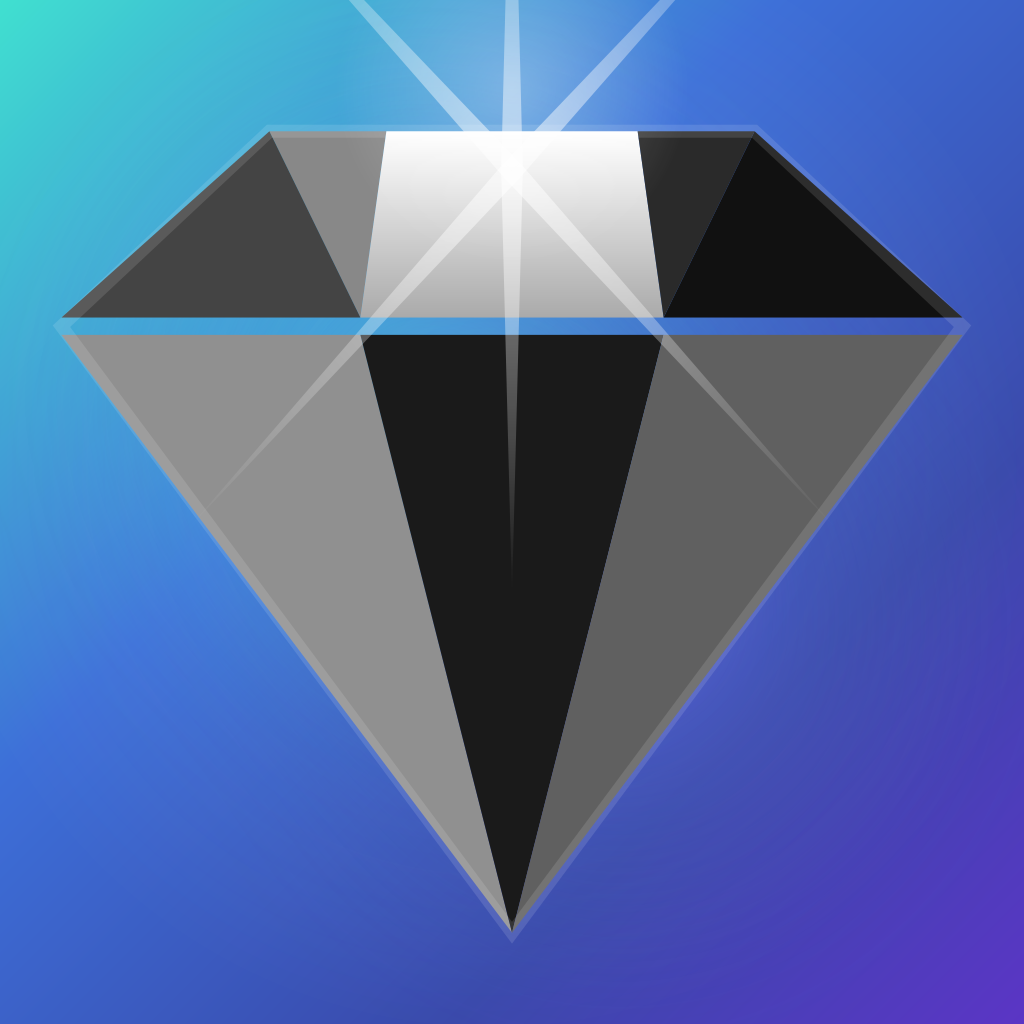
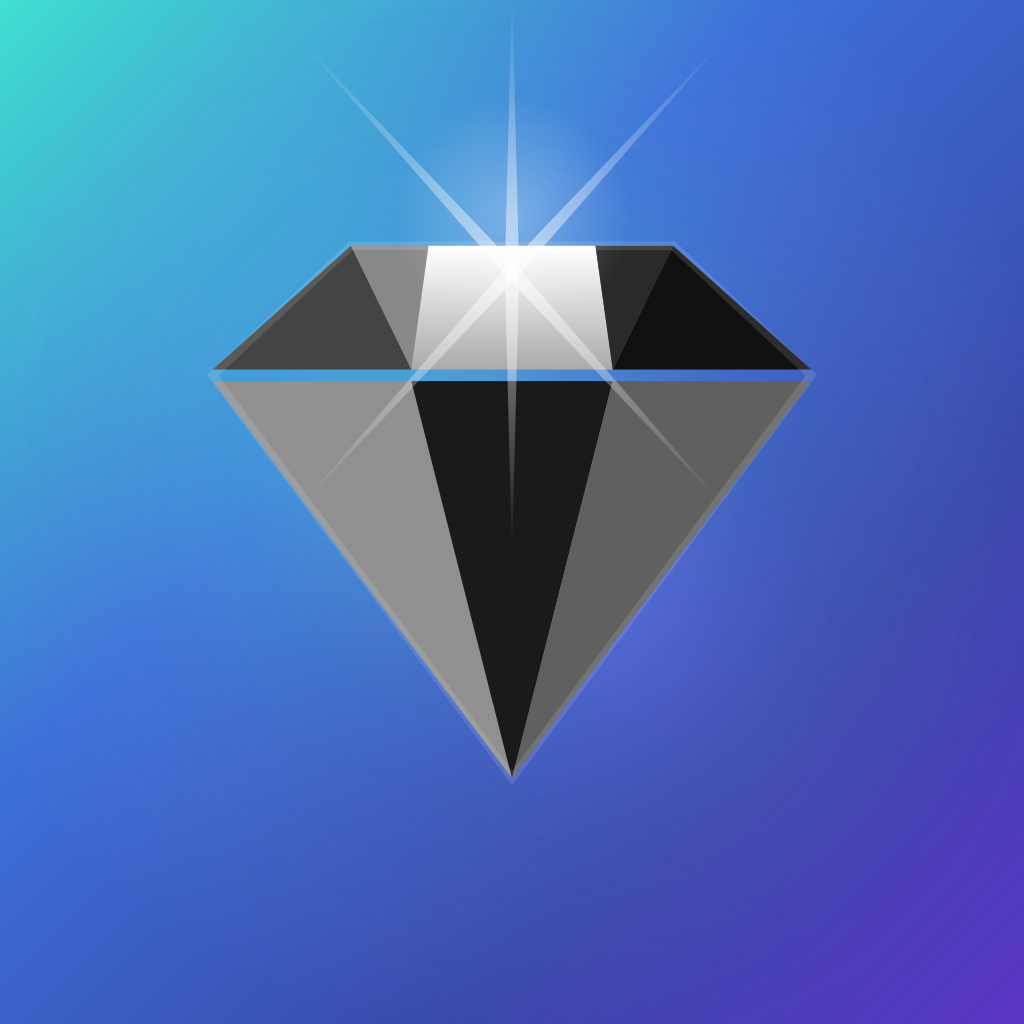
fix(geemastudio-mobile): icono launcher dentro del safe zone Android
Reduce el diamante (~52% alto, centrado) para que no se recorte en
máscaras circulares OEM; regenera icon.png y adaptive-icon.png.

diff --git a/docs/geemastudio/CHANGELOG.md b/docs/geemastudio/CHANGELOG.md
@@ -7,6 +7,10 @@ Formato basado en [Keep a Changelog](https://keepachangelog.com/es/1.0.0/).
 
 ## [Unreleased]
 
+### Corregido (22-sep 2026 — launcher icon safe zone)
+
+- **Mobile icon** — diamante reducido al ~52 % alto / centrado (antes 88 %+20 px). Cabe en máscara circular OEM sin clip; `icon.png` + `adaptive-icon.png` regenerados.
+
 ### Documentado (22-sep 2026 — Push FCM capas + versiones)
 
 - **Plan 06**: small icon Geema ✅ (diamante + tint `#3949AB`); large/image expandida = `tenant_settings.logo_url` (Tier 1 pendiente en `send-notification`).
